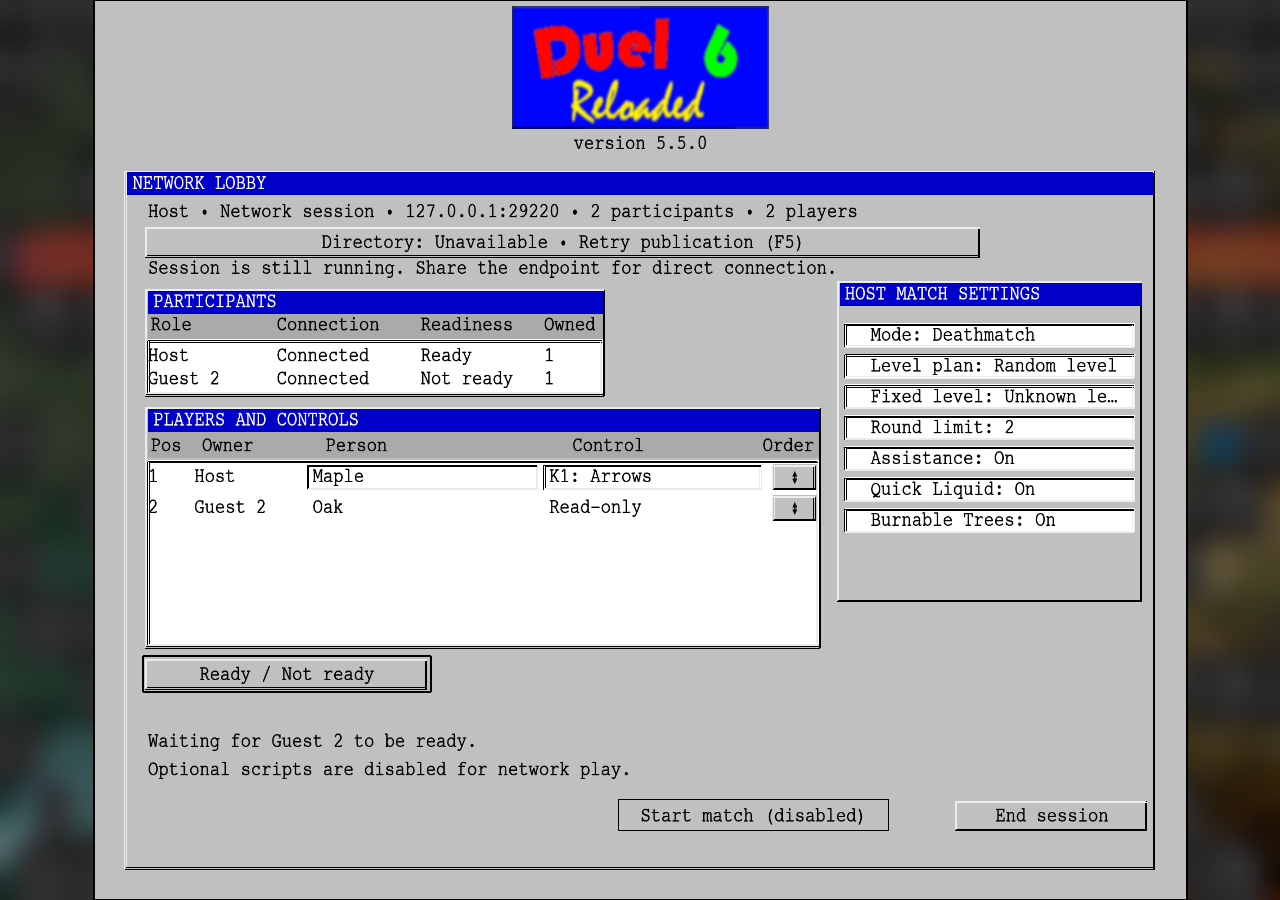
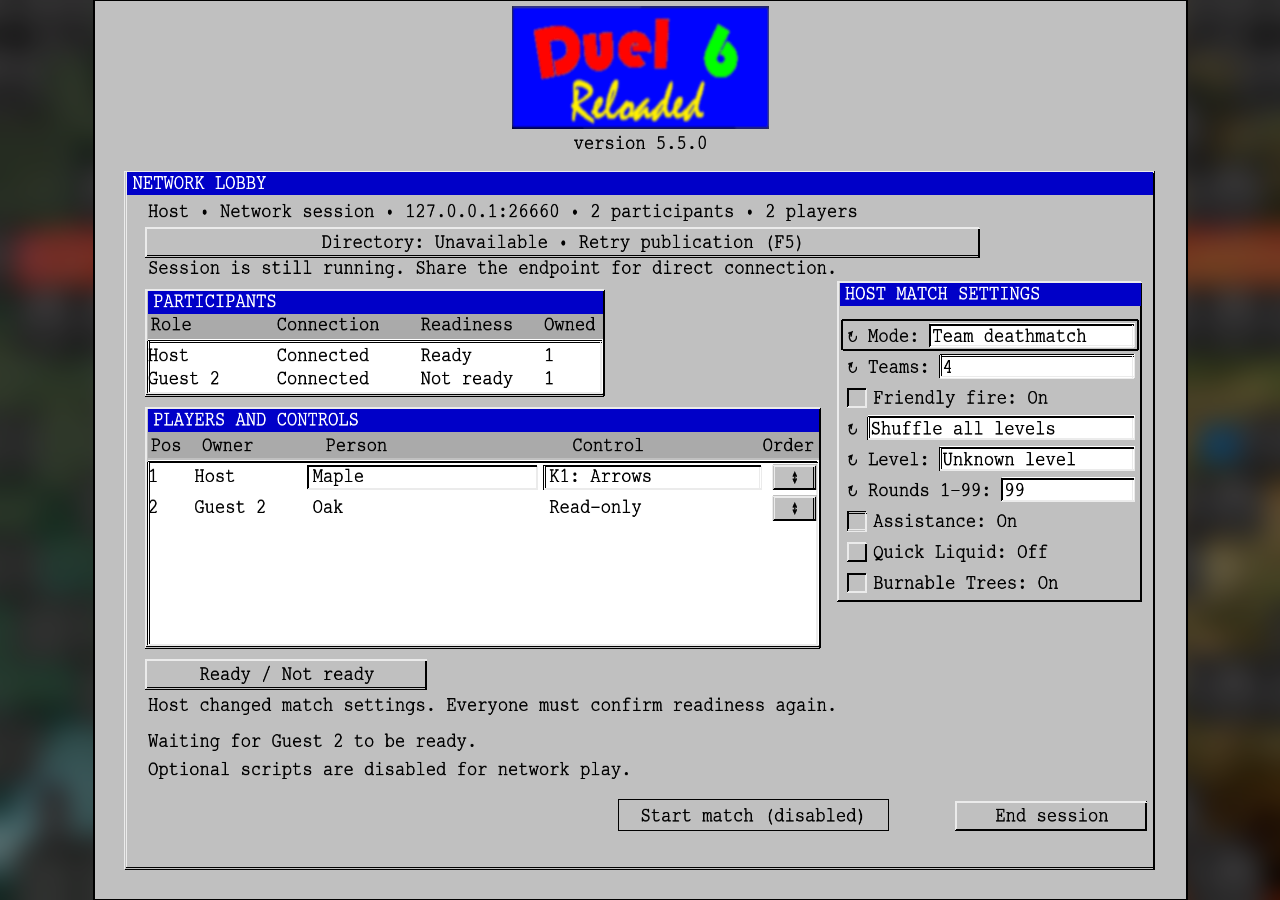
Docs > Integrate accepted host settings evidence

Changed region(s): [[0.6562, 0.3422, 0.9062, 0.6533], [0.125, 0.7778, 0.6562, 0.8089], [0.4062, 0.2178, 0.4375, 0.2489]]

diff --git a/docs/design/screenshots/README.md b/docs/design/screenshots/README.md
@@ -150,15 +150,39 @@ Only prior criteria or evidence that require enabled NET-05-S scroll arrows, a p
 
 ### Host game-settings current coverage
 
-This scoped coverage owns the appearance-only NET-04 and NET-04-R refinement under UX-NET-04-006 and UX-NET-04-019–031. The two rows below remain part of the coordinated matrix, not a separate campaign. They supersede older settings-presentation acceptance and host-directory reproduction targets for these two representatives only. Other rows, sources, and findings remain unchanged. Current conformance for these changed settings is **Pending**; existing artifact hashes identify historical evidence, not this refinement.
+This scoped coverage owns the appearance-only NET-04 and NET-04-R refinement under UX-NET-04-006 and UX-NET-04-019–031. The two rows below remain part of the coordinated matrix, not a separate campaign. They supersede older settings-presentation acceptance and host-directory reproduction targets for these two representatives only. Other rows, sources, and findings remain unchanged. Current conformance for the supplied changed-settings states is **Conforms** under the scoped assessment below; older artifact hashes remain historical evidence.
 
 Use the standard native desktop input profile and the established 850 × 700 logical canvas. Preferred environment remains Release GL4, Lua ON, Linux Docker, software OpenGL, Xvfb, and dummy audio. Record actual versions and canvas scaling. Use actual owned host/guest sessions and supported shipped levels. UX does not provision or reconfigure the task environment. Team must declare functional closure of the frozen candidate before developer replaces canonical images.
 
-Required constrained supplement: capture the actual guest NET-04-R at **850 × 700**, after the host has set the representative Team settings, with focus on a guest-owned person or control and real retained results visible. Show readable host-owned values and On/Off text without host cycle markers, enabled checkbox treatment, or host-settings focus targets. Keep guest read-only explanation, result labels/navigation, status, script policy, and footer unobscured. Developer destination: `docs/design/screenshots/NET-04/evidence/guest-read-only-850x700.png`. This supplement is required bounds/role evidence, not a third stable wireframe or representative. Its assessment is **Pending**.
+Required constrained supplement: capture the actual guest NET-04-R at **850 × 700**, after the host has set the representative Team settings, with focus on a guest-owned person or control and real retained results visible. Show readable host-owned values and On/Off text without host cycle markers, enabled checkbox treatment, or host-settings focus targets. Keep guest read-only explanation, result labels/navigation, status, script policy, and footer unobscured. Developer destination: `docs/design/screenshots/NET-04/evidence/guest-read-only-850x700.png`. This supplement is required bounds/role evidence, not a third stable wireframe or representative. Its assessment is **Conforms for the supplied state**, with the unchanged clipped-status observation recorded below.
 
 The two representative rows and this supplement are the complete required screenshot set for the refinement. Non-Team collapse, 99-to-1 wrap, Fixed level's plan change, whole-row press timing, absent extra targets, no typing/held repeat, host permissions, readiness clearing, content-blocked availability, and keyboard/controller traversal require focused behavioral QA, not additional canonical captures. Existing maximum-membership and result-extreme requirements remain unchanged.
 
-For each supplied artifact, record source checkpoint, stable screen/wireframe ID, actual state and setup data, client viewport/input profile, environment versions, task environment namespace, backend candidate identity, stable endpoint or transport mapping, exact path, and SHA-256. Use an actual completed result for NET-04-R; do not inject history. Developer owns capture and image files. Final visual assessment must review both representatives and the supplement together against the frozen sources. No capture hashes exist yet for this refinement.
+For each supplied artifact, record source checkpoint, stable screen/wireframe ID, actual state and setup data, client viewport/input profile, environment versions, task environment namespace, backend candidate identity, stable endpoint or transport mapping, exact path, and SHA-256. Use an actual completed result for NET-04-R; do not inject history. Developer owns capture and image files. Final visual assessment must review both representatives and the supplement together against the frozen sources. Current supplied hashes are recorded below.
+
+#### Host game-settings current visual assessment
+
+The complete required set conforms for the supplied states and profiles. Frozen presentation source: `23d9d72f36cc57735c88e0570124e03df6447169`. Fixed approved UX source: `165b64372a506814eabaff47918f39b9aa651910`. Team declared functional closure before capture. Normative specifications and wireframes remain unchanged. The MENU-01 component rules in `docs/design.md` and existing `docs/screenshots/MENU-01/teams-consolidated-persons-retained-1920x1080.png` provide the main-menu appearance reference, not network behavior or new candidate evidence.
+
+| Assessed artifact | Supplied SHA-256 | Current conformance |
+|---|---|---|
[3 lines of base64/hex data omitted]
+
[1 lines of base64/hex data omitted]
+
+Actual setup uses Maple and Oak, one player each, K1: Arrows in separate clients. SS-018 shows host Ready and guest Not ready. The same actual two-round Deathmatch on mirrored Duel 10 produced Maple / Player 2 as both round winners and match winner. After Return to lobby, representative Team/mixed-toggle settings were restored and both readiness values cleared. Historical results remain separate from current settings. `Unknown level` is the supplied baseline display of normalized empty Fixed level under Shuffle, not substituted example data or proof of missing supported content.
+
+Observations and gate disposition:
+
+- No blocking finding exists for changed settings appearance, focus presentation, role differentiation, or allocation under UX-NET-04-006/019–031.
+- The constrained guest's long existing status ends in an ellipsis inside its unchanged bounded region. It does not cover script policy, read-only explanation, results, or footer. This is a disclosed baseline limitation, not a new settings-layout defect or certification of complete long-status readability. Gate: non-blocking for this scoped refinement. Owner: team routes any separate readability task to product and developer. Revalidation: assess this guest status region if its requirements or presentation source change; no additional capture is required now.
+- Still images establish visible structure and styling only. Invisible pointer bounds, activation timing, hidden-state targets, keyboard/controller outcomes, and actual scroll operation remain covered by team's declared functional closure, not inferred from screenshots. No controller execution or native Mac visual pass is claimed.
+
+Visual gate: satisfied
+
+This closes the entire required refinement set. Exact artifact/manifest integration without a presentation-source change does not require another assessment or capture campaign. A presentation-source change requires team to retire affected evidence and authorize scoped revalidation. Native automation, deferred Mac GUI/cross-OS verification, hosted checks, and Ready/Merge authorization remain separate team-owned gates.
 
 ### Matrix
 
@@ -173,8 +197,8 @@ This matrix specifies reproduction targets; the current assessment below owns ea
 | NET-02-P / NET-02 / [NET-02-P](../wireframes/NET-02/NET-02-P.svg) | From valid NET-02, activate Start session; capture any actual pending-startup frame before confirmed readiness, including an unaltered full-client frame selected from native recording. | Starting session and timing help; Cancel focused; no editable setup, second Start, or success claim. No minimum display duration is required for the image. | 1280 × 900 | `docs/design/screenshots/NET-02/NET-02-P.png` |
 | NET-03-E / NET-03 / [NET-03-E](../wireframes/NET-03/NET-03-E.svg) | Network → Browse sessions → select an actual protected open first-round host → Join selected; retain one valid local person/control. | NET-03-password; required-password focus, masked input when entered, endpoint, first-round consequence, Connect and Back. | 1280 × 900 | `docs/design/screenshots/NET-03/NET-03-E.png` |
 | SS-017 / NET-03 / [NET-03](../../screens/wireframes/network-join.md) | Network → Direct connect; Address 127.0.0.1, Port 26660, two local persons/controls → Connect to an authorized owned listener that accepts transport but withholds a complete admission result. | Actual Connecting before its deadline; retained endpoint; two locked slot/person/control rows; truthful status and focused Cancel. | 1280 × 900 | `docs/design/screenshots/NET-03/NET-03.png` |
-| SS-018 / NET-04 / [NET-04](../wireframes/NET-04/NET-04.svg) | Network → Host → actual confirmed lobby; host plus guest, one slot each; guest unready. Set Team deathmatch, 4 teams, Friendly fire On, Assistance On, Quick Liquid Off, Burnable Trees On, Shuffle all levels, Round limit 99. Focus Mode. Retain directory failure/Retry publication when the authorized setup provides it; otherwise record confirmed directory state without manufacturing failure. Do not start the 99-round match. | Pending. Readable vertical settings stack; full mode/plan values; cycle markers and inset current values; square toggle states plus On/Off; visible row focus; separate participant columns; owned versus remote values; unchanged disabled Start reason, script policy, and footer. No directional arrows, typing caret, or extra targets. | 1280 × 900; standard desktop input; scaled 850 × 700 logical canvas | `docs/design/screenshots/NET-04/NET-04.png` |
-| SS-025 / NET-04 / [NET-04-R](../wireframes/NET-04/NET-04-R.svg) | Complete an actual two-round match, which may reuse the NET-06 setup; host Return to lobby in the same session. After return, set the same Team settings and mixed toggles as SS-018, including Round limit 99 and Shuffle all levels. Retain actual Completed history and record confirmed directory state. Focus Mode, outside Reorder. | Pending. Compact row-major two-column settings grid; full mode/plan values and mixed toggle states; current membership distinct from retained Completed history; fixed outcome labels; working result navigation/position feedback; cleared readiness, status, script policy, and footer. Plain host reorder help remains visible without a new target. No result-region reduction or settings overflow. | 1280 × 900; standard desktop input; scaled 850 × 700 logical canvas | `docs/design/screenshots/NET-04/NET-04-R.png` |
+| SS-018 / NET-04 / [NET-04](../wireframes/NET-04/NET-04.svg) | Network → Host → actual confirmed lobby; host plus guest, one slot each; guest unready. Set Team deathmatch, 4 teams, Friendly fire On, Assistance On, Quick Liquid Off, Burnable Trees On, Shuffle all levels, Round limit 99. Focus Mode. Retain directory failure/Retry publication when the authorized setup provides it; otherwise record confirmed directory state without manufacturing failure. Do not start the 99-round match. | Conforms for supplied state; see current scoped assessment and hash. Readable vertical settings stack; full mode/plan values; cycle markers and inset current values; square toggle states plus On/Off; visible row focus; separate participant columns; owned versus remote values; unchanged disabled Start reason, script policy, and footer. No directional arrows or typing caret. Invisible targets remain functional-closure checks. | 1280 × 900; standard desktop input; scaled 850 × 700 logical canvas | `docs/design/screenshots/NET-04/NET-04.png` |
+| SS-025 / NET-04 / [NET-04-R](../wireframes/NET-04/NET-04-R.svg) | Complete an actual two-round match, which may reuse the NET-06 setup; host Return to lobby in the same session. After return, set the same Team settings and mixed toggles as SS-018, including Round limit 99 and Shuffle all levels. Retain actual Completed history and record confirmed directory state. Focus Mode, outside Reorder. | Conforms for supplied state; see current scoped assessment and hash. Compact row-major two-column settings grid; full mode/plan values and mixed toggle states; current membership distinct from retained Completed history; fixed outcome labels; result navigation/position presentation; cleared readiness, status, script policy, and footer. Plain host reorder help remains visible. No result-region reduction or settings overflow. Invisible targets and scroll operation remain functional-closure checks. | 1280 × 900; standard desktop input; scaled 850 × 700 logical canvas | `docs/design/screenshots/NET-04/NET-04-R.png` |
 | SS-019 / NET-05 / [NET-05](../../screens/wireframes/network-match.md) | Host plus guest, one slot each; actual Deathmatch on any supported shipped level; capture guest during active Connected play. The same two-round match may supply NET-05-S/R and NET-06. | Two-player complete shared arena; truthful Connected status; unchanged gameplay HUD; framed Leave session action. No mandatory Invisibility, degraded state, level, or mirror value. Record the actual state despite the historical filename. | 1280 × 900 | `docs/screenshots/NET-05/six-player-lan-degraded-1280x900.png` |
 | SS-026 / NET-05 / [NET-05-C](../wireframes/NET-05/NET-05-C.svg) | In actual guest active play, open Leave session with Escape; capture before acceptance; cancel after capture. | Bounded confirmation over arena; full consequence; Leave session focused before Cancel; both framed controls visible. | 1280 × 720 | `docs/design/screenshots/NET-05/NET-05-C.png` |
 | NET-05-S / NET-05 / [NET-05-S](../wireframes/NET-05/NET-05-S.svg) | Host plus guest, one slot each, in actual Deathmatch; before the first round has a winner, press Tab once. The common two-round setup may be reused. | Real pre-winner overlay; Session only/In progress and actual available values; fixed labels/body; optional truthful non-actionable position text; no enabled scroll-arrow affordance, new shortcut, focus target, or fabricated completed row. | 1280 × 900 | `docs/design/screenshots/NET-05/NET-05-S.png` |
